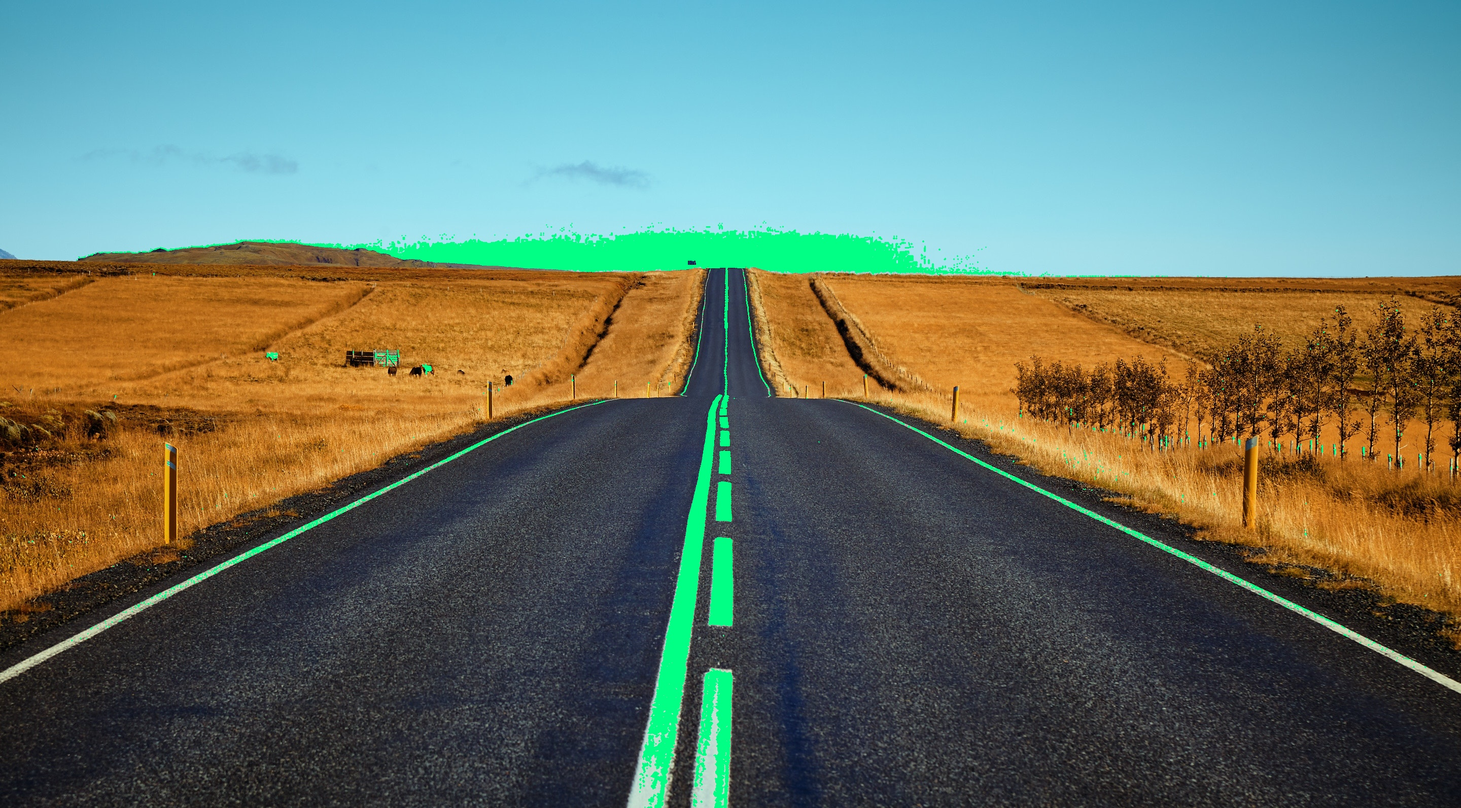
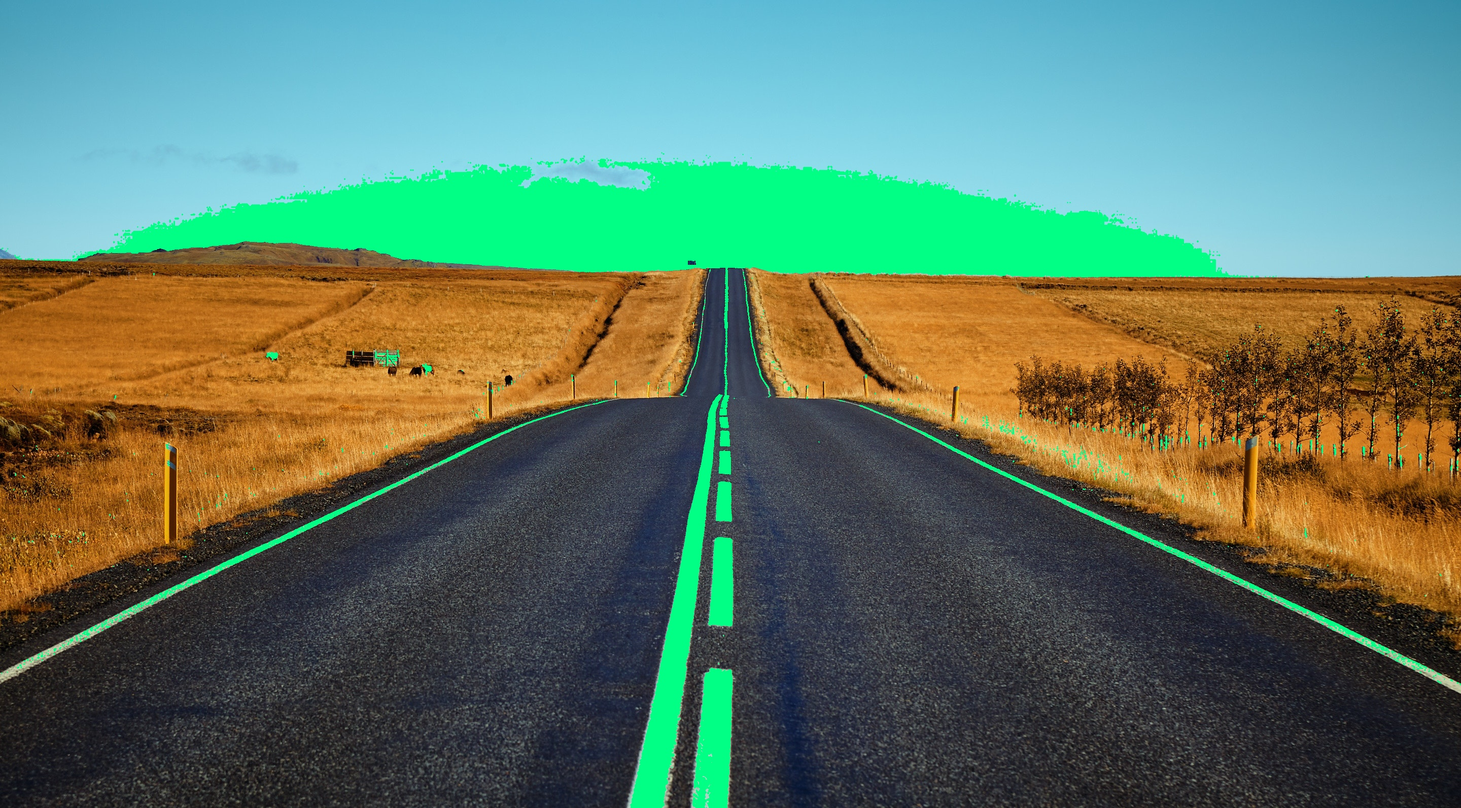
add highway test image

diff --git a/point.py b/point.py
@@ -9,7 +9,7 @@ import time
 class Point( object ) :
 	def __init__( self ) :
 		# Set image id
-		self.image_id = '1'
+		self.image_id = '19'
 		self.path = 'assets/img/' + self.image_id + '.jpg'
 		self.photo = Image.open( self.path )
 		self.width, self.height = self.photo.size
